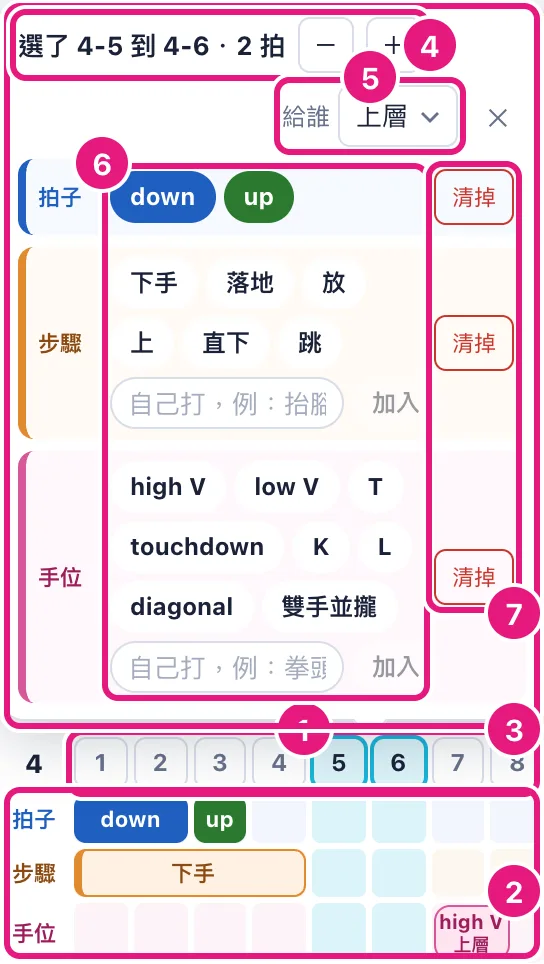
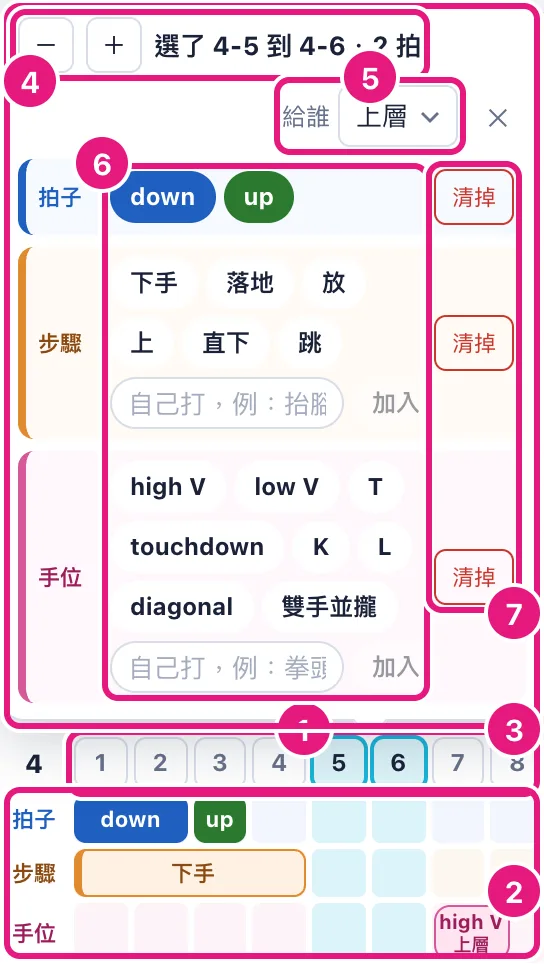
Fix three cue pop-up issues found by codex review
- Put －／＋ before the "選了…" text, so the buttons stay under the
  pointer when the text grows.
- Esc while a Chinese IME is composing only cancels the composition;
  the pop-up stays open.
- Re-place the pop-up when the window is resized.

Re-shot figure 13 for the new button order.

Claude-Session: https://claude.ai/code/session_01CaumtruF4qjt98uUb7eTfQ

Changed region(s): [[0.0, 0.0311, 0.6562, 0.1245], [0.6875, 0.0, 0.8438, 0.0934]]

diff --git a/src/lib/components/CueGrid.svelte b/src/lib/components/CueGrid.svelte
@@ -95,6 +95,8 @@
 	let follow = false;
 	/** 按的是小窗裡的按鈕（＋－、放拍點）：小窗留在原地，按鈕不會從滑鼠下面跑掉。 */
 	let hold = false;
+	/** 視窗多寬；變了小窗就重新放。 */
+	let winW = $state(0);
 	const whoIndex = $derived(Math.max(0, whoOptions.findIndex((o) => sameWho(o.who, who))));
 
 	/** 這一格（從 at 開始的一拍）整個在動作裡。 */
@@ -268,6 +270,7 @@
 		if (!pop || dragging || !wrapEl || !popEl) return;
 		void flow;
 		void error;
+		void winW; // 視窗變寬變窄，小窗也重新放
 		const held = hold;
 		hold = false;
 		const q = (s: string) => wrapEl!.querySelector<HTMLElement>(s);
@@ -318,7 +321,8 @@
 
 	/** Esc 只關小窗（不讓編輯頁把動作也取消選）。 */
 	function popKeys(e: KeyboardEvent) {
-		if (!pop || e.key !== 'Escape') return;
+		// 中文輸入法選字時的 Esc 是取消選字，不關小窗（Safari 選字時 keyCode 是 229）。
+		if (!pop || e.key !== 'Escape' || e.isComposing || e.keyCode === 229) return;
 		e.stopPropagation();
 		pop = false;
 	}
@@ -457,9 +461,10 @@
 					aria-label="拍點小窗"
 				>
 					<div class="pop-head">
-						<span class="sel-text">選了 {spanText(sel.from, selLen)}</span>
+						<!-- －／＋ 放在字前面：字會變長，放後面按鈕就會被擠走 -->
 						<button type="button" class="pm" aria-label="少選一拍" onclick={() => grow(-1)}>－</button>
 						<button type="button" class="pm" aria-label="多選一拍" onclick={() => grow(1)}>＋</button>
+						<span class="sel-text">選了 {spanText(sel.from, selLen)}</span>
 						<label class="who-sel">
 							<span>給誰</span>
 							<select value={whoIndex} onchange={(e) => (who = whoOptions[Number(e.currentTarget.value)].who)}>
@@ -511,7 +516,7 @@
 	{/if}
 </div>
 
-<svelte:window onpointerdown={outside} onkeydowncapture={popKeys} />
+<svelte:window bind:innerWidth={winW} onpointerdown={outside} onkeydowncapture={popKeys} />
 
 <style>
 	.cues {

diff --git a/src/lib/components/CueGrid.svelte.test.ts b/src/lib/components/CueGrid.svelte.test.ts
@@ -173,6 +173,15 @@ describe('拍點格子：拍點小窗', () => {
 		window.removeEventListener('keydown', outer);
 	});
 
+	it('中文輸入法還在選字時按 Esc，只取消選字，小窗不關', async () => {
+		const { grid, pop } = setup();
+		await fireEvent.click(grid.getByRole('button', { name: '3-5' }));
+		const input = within(pop()!).getByRole('textbox', { name: '自己打步驟' });
+		await fireEvent.keyDown(input, { key: 'Escape', isComposing: true });
+		await fireEvent.keyDown(input, { key: 'Escape', keyCode: 229 });
+		expect(pop()).not.toBeNull();
+	});
+
 	it('在格子外面按一下，小窗關掉；在小窗裡按不會關', async () => {
 		const { grid, pop } = setup();
 		await fireEvent.click(grid.getByRole('button', { name: '3-5' }));
